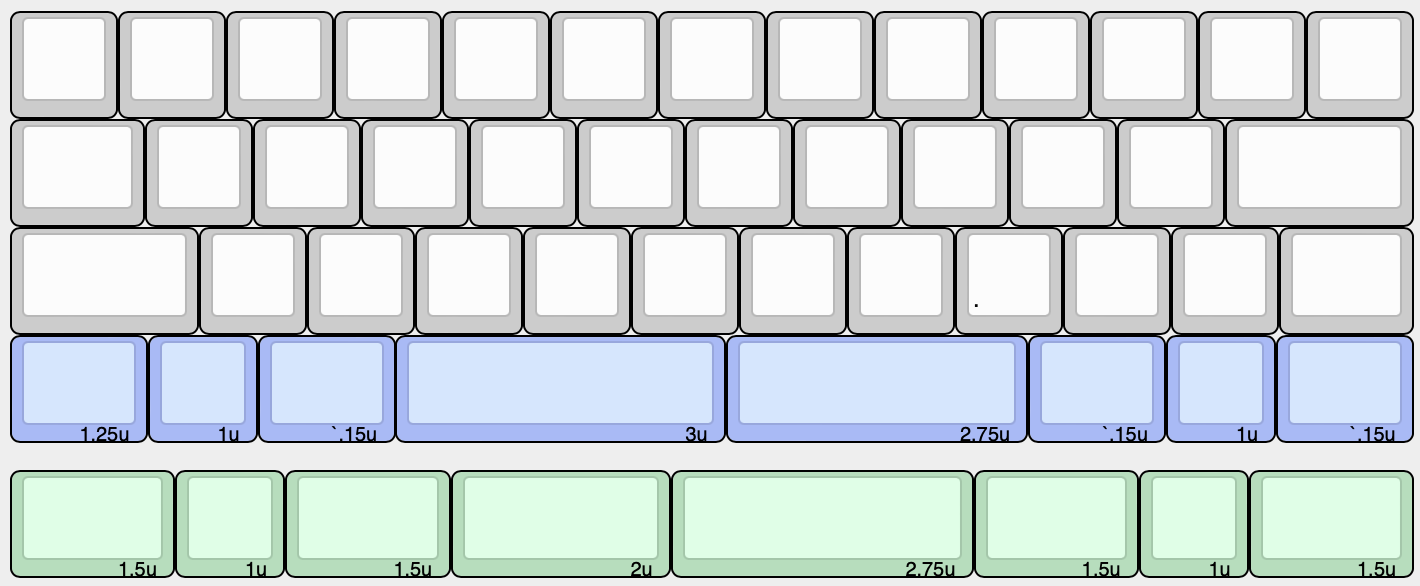
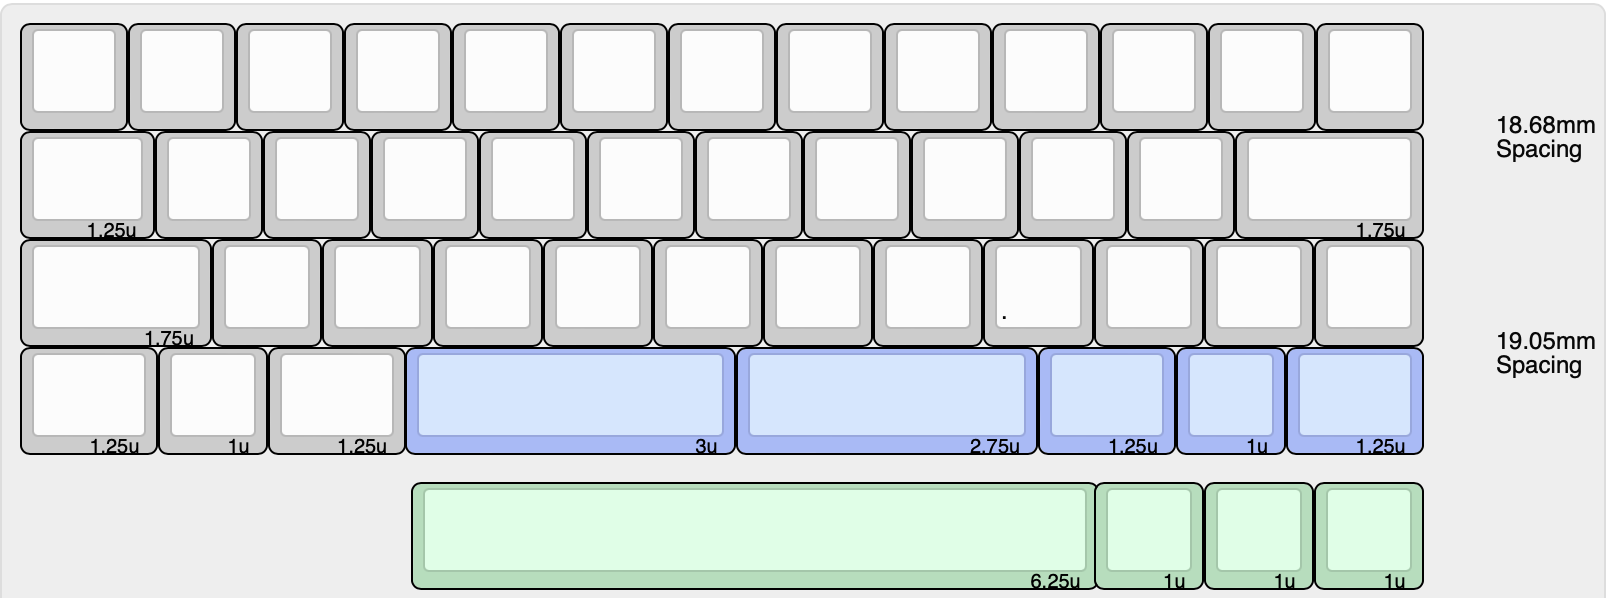
update readme

diff --git a/README.md b/README.md
@@ -7,20 +7,30 @@
 [kle](http://www.keyboard-layout-editor.com/#/gists/a9f61f5347eb8cae020ee2f3067dfd0b)
 
 
-made in kicad 7.99 nightly
+made in kicad 7.99 nightly, sorry
 
-staggered layout with minibaen spacing (18.68mm x 19.05mm) except on bottom row, which is 12.75u 1.25/1/1.25/2.75/3/1.25/1/1.25 layout for spacebar kits designed by people who included only a single 3u bar (usually the same people who exclude van backspace, or china kitting or something)
+staggered layout with minibaen spacing (18.68mm x 19.05mm) on the top two rows (to handle keysets with boycott kitting)
+19.05mm x 19.05mm spacing on the bottom alpha row, and modifier key row
+modifier key row supports 1.25/1/1.25/2.75/3/1.25/1/1.25 layout for spacebar kits designed by people who included only a single 3u bar, and jetvan
 
 based on minibaen r2, extraneous files from ortho minibaen have not been cleared out so uhhhh watch out.
-edge cuts, usb port position, and some tray mount points are lifted from there
+edge cuts, usb port position, and some tray mount points are lifted from there.
 
-stm32f072 schematic is courtesy xphoenixd
+gerbers and dxf for plates for tray mount and coriander top mount are provided.
 
 this hasn't been tested. don't use this.
 
+## thanks
+
+* stm32f072 schematic is courtesy xphoenixd
+* kiser for suggesting leaving normal spacing on bottom alpha row
+* rain on basic tips on how to generate plate files easily, as well as part number for ESD chip
+  * islandworks, matt, and mel for suggesting I don't use "ballsack" ESD chip 
+
 ## issues
 
-* SW12 needs to be flipped to north facing, otherwise the pins interfere with usb
+* SW12 needs to be flipped to north facing, otherwise the pins interfere with usb. if you intend on using this in tray mount, you may need to clip the switch legs.
+* SW43 needs to be flipped to north facing, to prevent interference with bottom right tray mount point.
 * some mount points are excluded due to interference with components or switches
   * one of the mount points on the 3U bar cannot be screwed in since it is in the same location as the 3u stabilizer. the best way to deal with this is to use GMK 3U bars, which contain stems for 2U stabilizers as well.
 * has not been tested at all. mounting holes and usb port may be slightly off. hopefully the tray mount plate is fine
